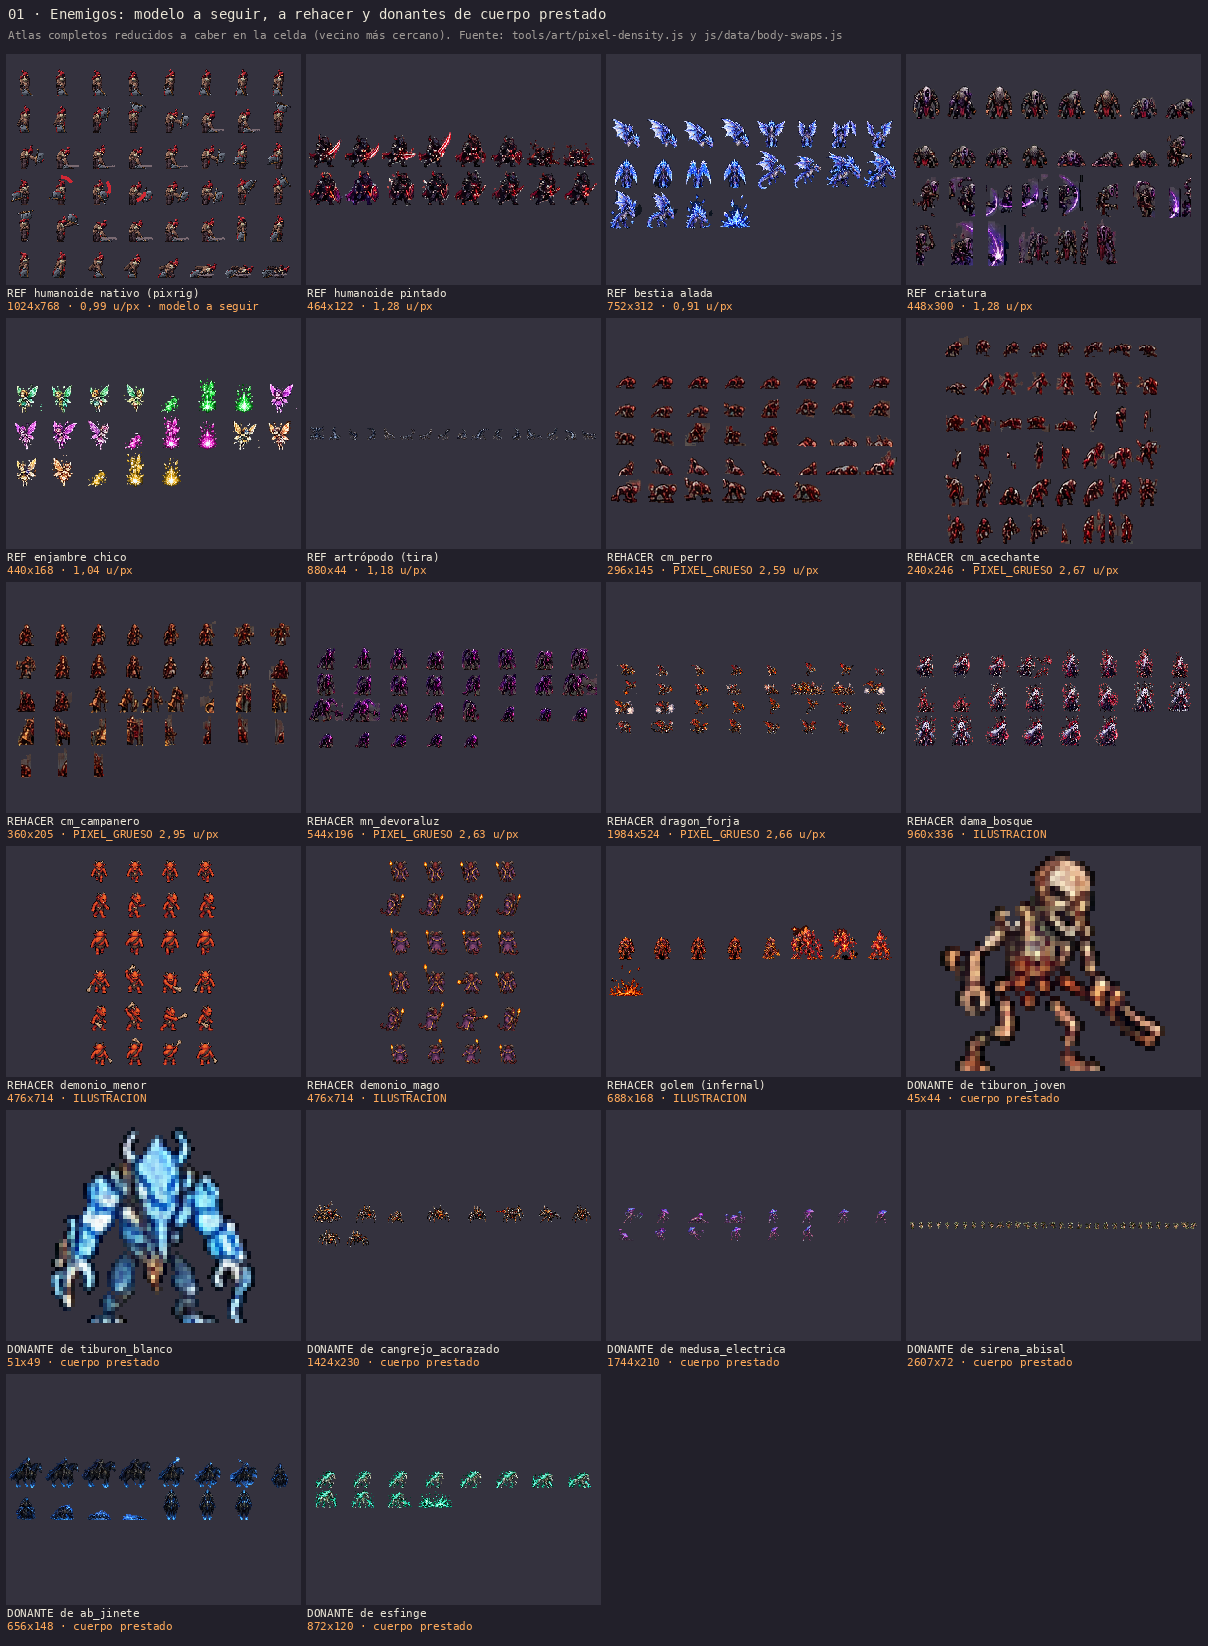
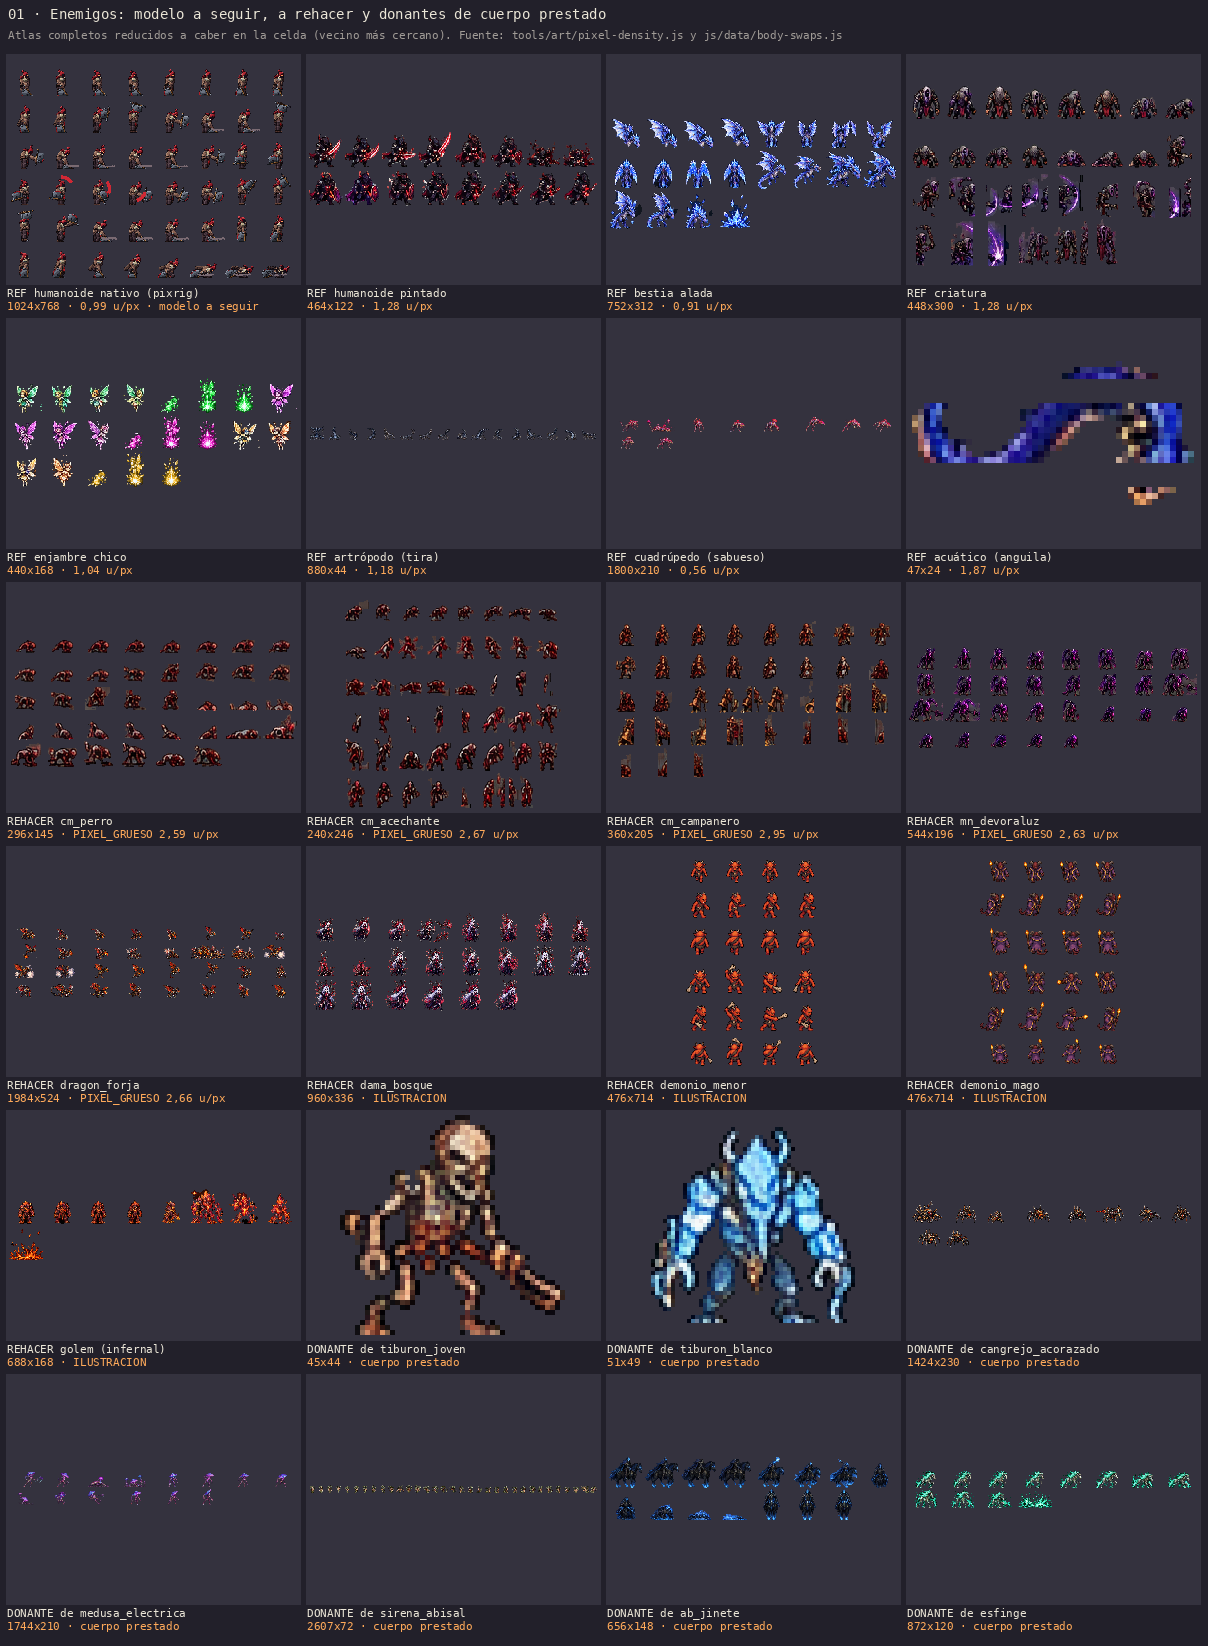
Arte: hojas de referencia con cuadrúpedo y acuático, y 84 íconos UI completos
Claude-Session: https://claude.ai/code/session_016WpDztKDafDAZxzDZ7eEqG

diff --git a/tools/art/gen-referencias-mundo.py b/tools/art/gen-referencias-mundo.py
@@ -172,6 +172,8 @@ def h01_enemigos():
         ("assets/sprites/arenas/abismo/ab_errante/atlas.png", "REF criatura", "1,28 u/px"),
         ("assets/sprites/enemies/bosque/enjambre_hadas/v3/atlas.png", "REF enjambre chico", "1,04 u/px"),
         ("assets/sprites/enemies/laberinto/escorpion_gigante/walk-strip.png", "REF artrópodo (tira)", "1,18 u/px"),
+        ("assets/sprites/arenas/micelial/sabueso/atlas.png", "REF cuadrúpedo (sabueso)", "0,56 u/px"),
+        ("assets/sprites/enemies/acuatica/anguila_electrica/idle_01.png", "REF acuático (anguila)", "1,87 u/px"),
         ("assets/sprites/arenas/ciudad/cm_perro/atlas.png", "REHACER cm_perro", "PIXEL_GRUESO 2,59 u/px"),
         ("assets/sprites/arenas/ciudad/cm_acechante/atlas.png", "REHACER cm_acechante", "PIXEL_GRUESO 2,67 u/px"),
         ("assets/sprites/arenas/ciudad/cm_campanero/atlas.png", "REHACER cm_campanero", "PIXEL_GRUESO 2,95 u/px"),
@@ -273,7 +275,7 @@ def h05_iconos_ui():
         cuerpo = src[src.index("const PXI_ART"):]
         cuerpo = cuerpo[:cuerpo.index("const PXI_EMOJI")] if "const PXI_EMOJI" in cuerpo else cuerpo
         ambiguos = {"idolo", "figura", "antena", "cuerno", "caballo", "huellas", "silencio", "enlace", "cadena",
-                    "chispa", "estrella", "murcielago", "orbe", "ticket", "agujero", "carrito", "pechera", "vapor"}
+                    "chispa", "estrella", "murcielago", "orbe", "ticket", "agujero", "carrito", "pechera", "vapor", "intercambio"}
         grillas = []
         for m in re.finditer(r"^\s{2}(\w+):\[((?:\s*\"[^\"]{16}\",?)+)\s*\]", cuerpo, re.M):
             filas = re.findall(r'"([^"]{16})"', m.group(2))
